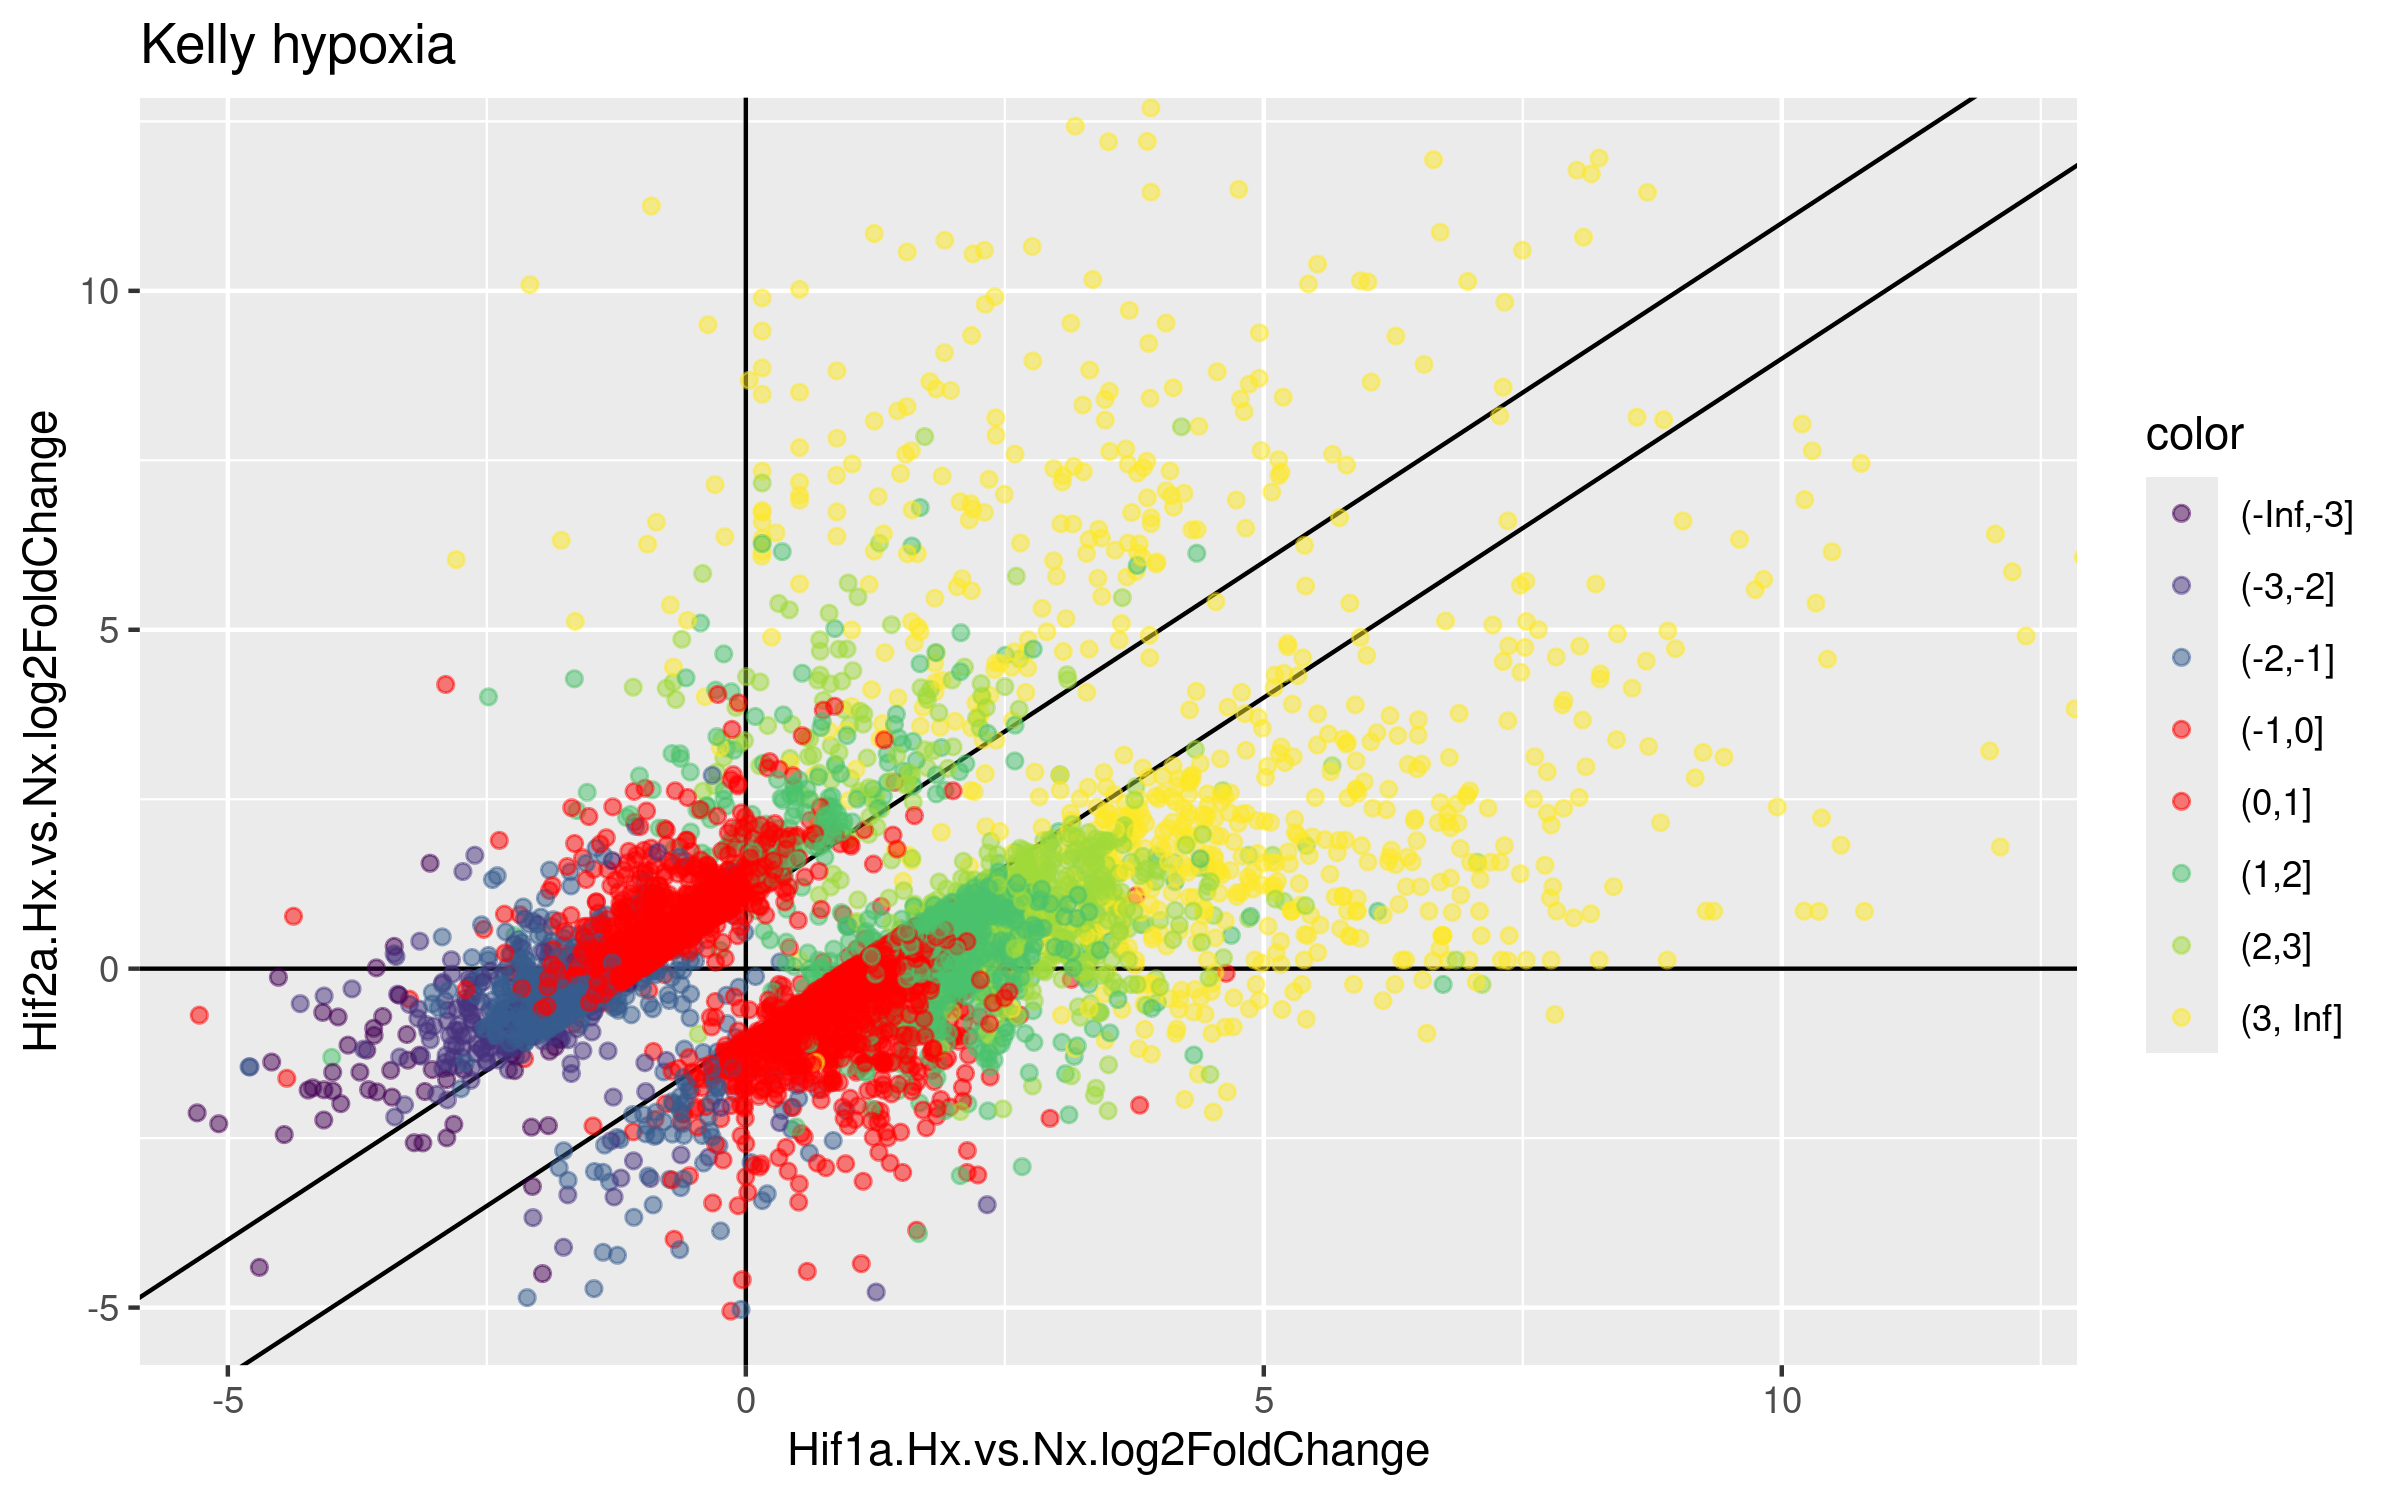
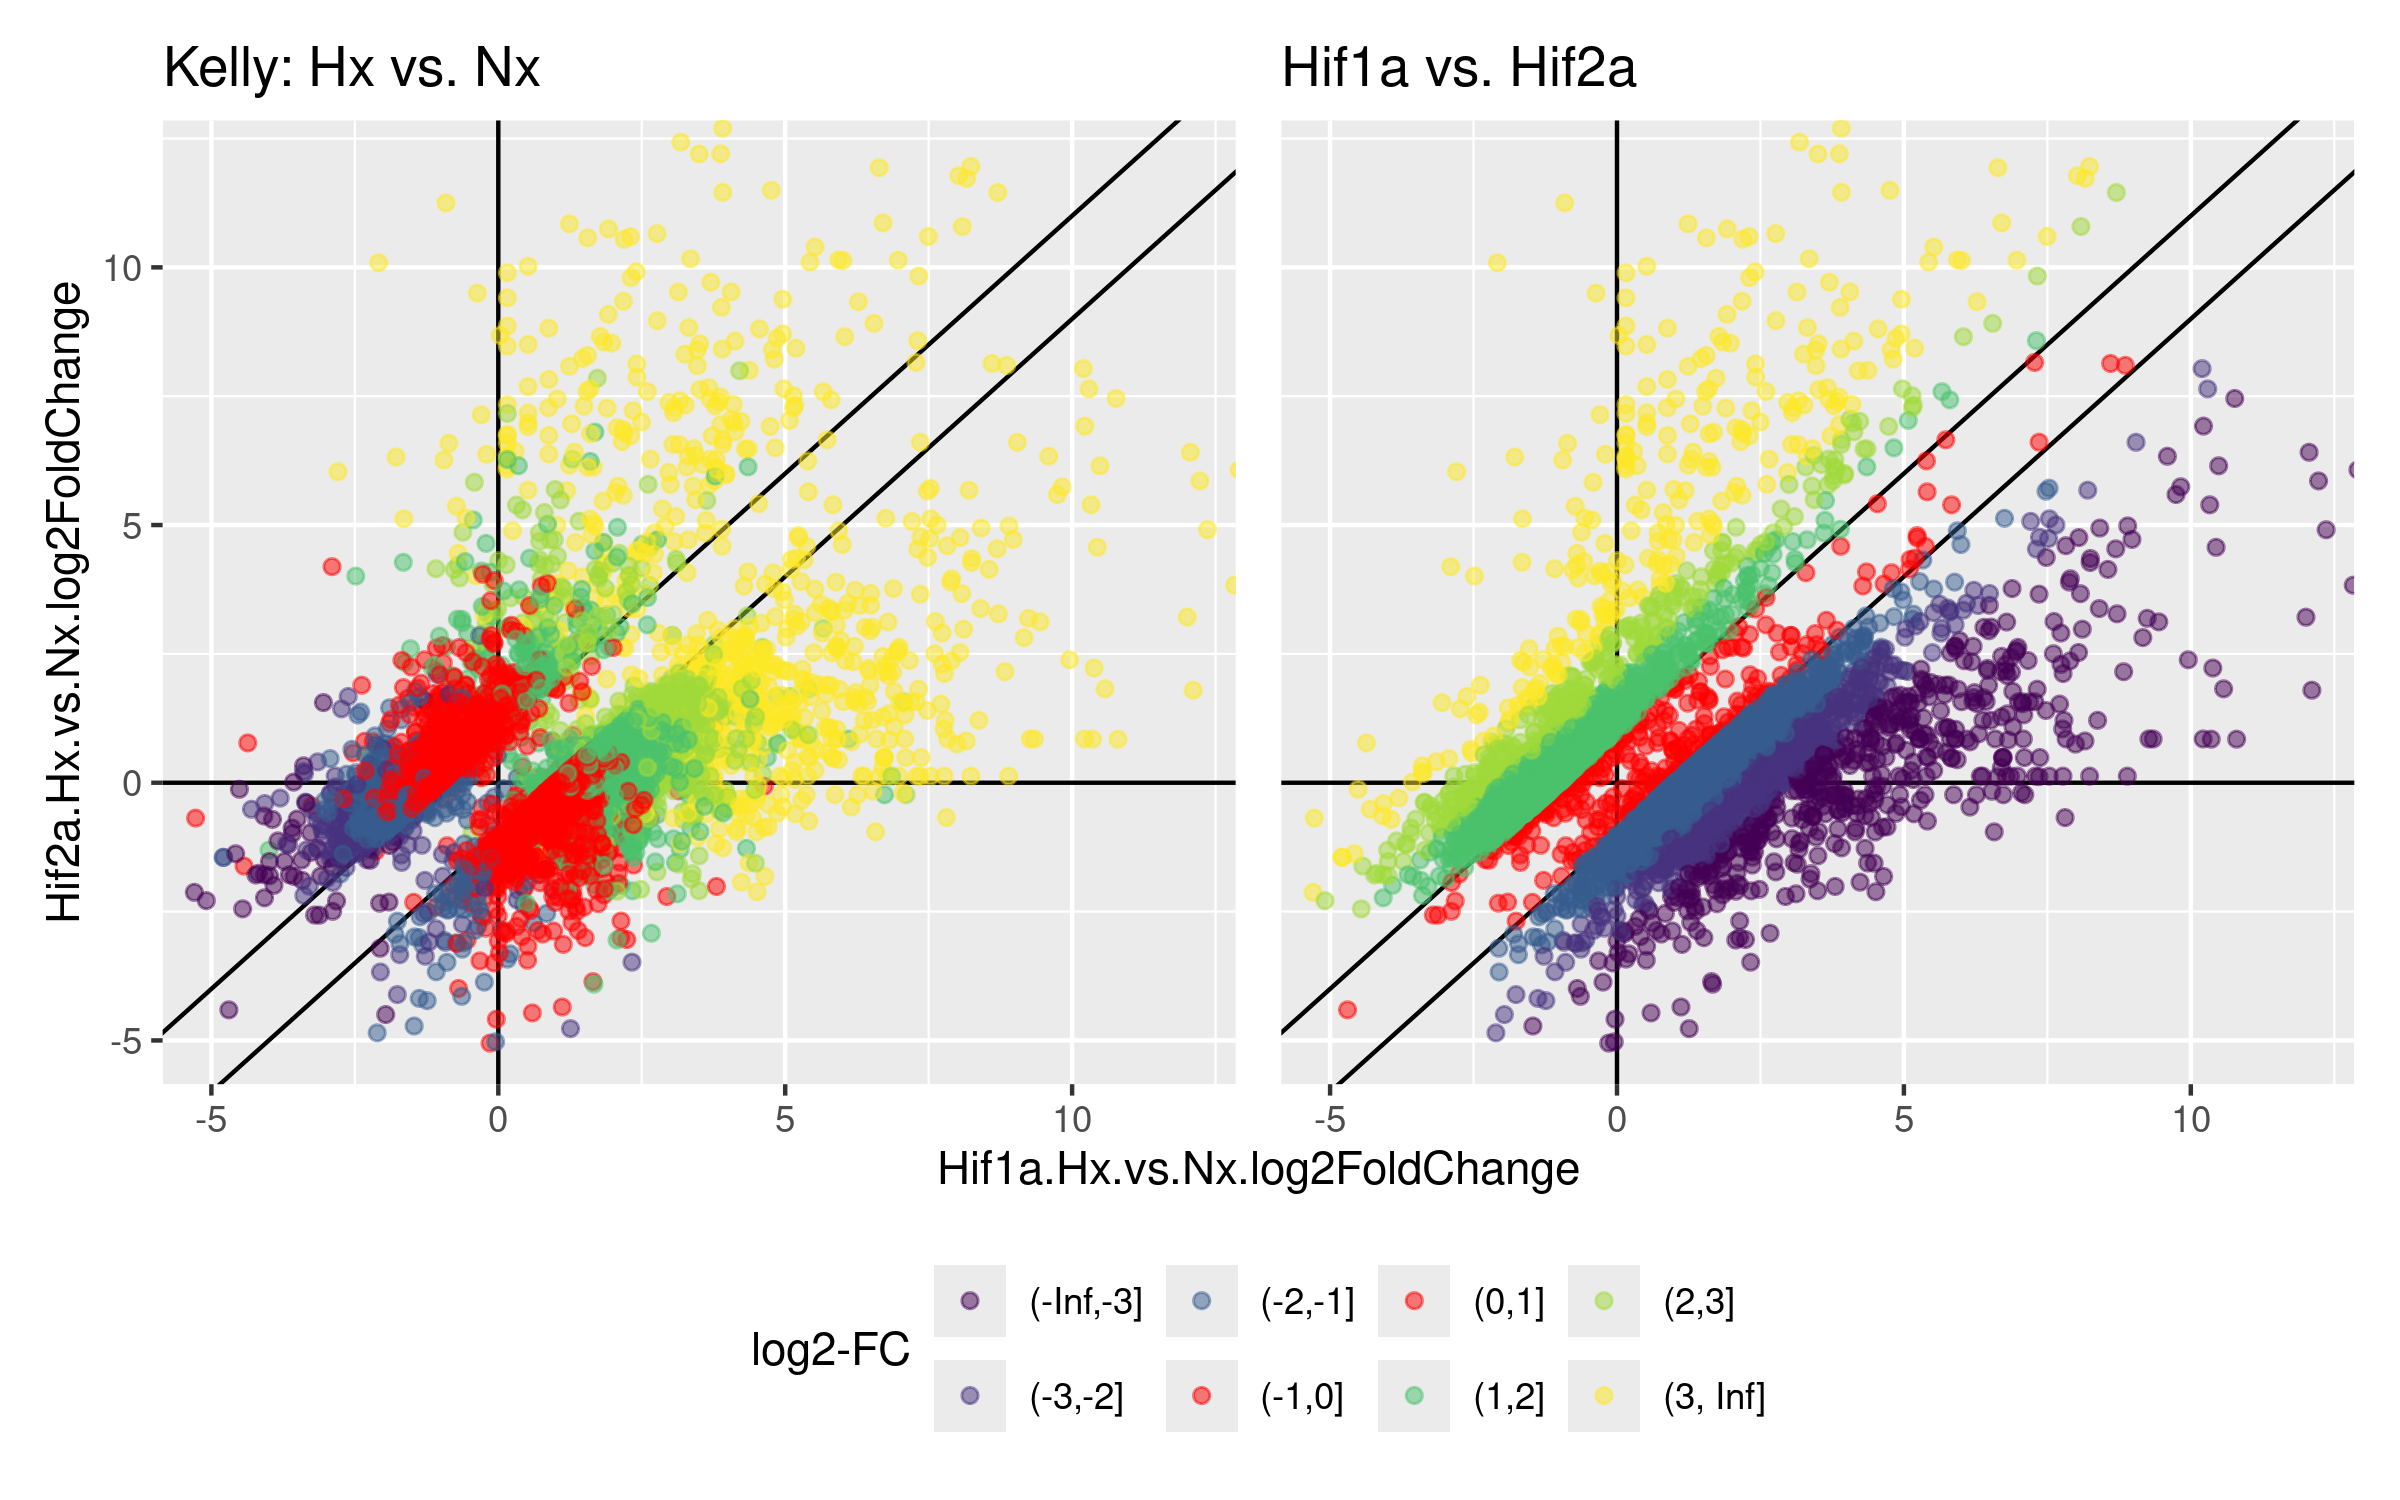
cluster2

diff --git a/4_manuscript/Readme.md b/4_manuscript/Readme.md
@@ -276,38 +276,37 @@ patchwork::wrap_elements(plt1) / patchwork::wrap_elements(plt2)
 
 ``` r
 # Hif1a ~ Hif2a, color: Kelly_Hx
-color <- cut(res_hif1a_2a$Kelly.Hx.vs.Nx.log2FoldChange,c(-Inf,seq(-3,3,by=1),+Inf))
+color1 <- cut(res_hif1a_2a$Kelly.Hx.vs.Nx.log2FoldChange,c(-Inf,seq(-3,3,by=1),+Inf))
 cc <- scales::seq_gradient_pal("blue", "red", "Lab")(seq(0,1,length.out=8))
 cc <- viridis(8)
 cc[4:5] <- "red"
-ggplot(res_hif1a_2a,aes(x=Hif1a.Hx.vs.Nx.log2FoldChange, y=Hif2a.Hx.vs.Nx.log2FoldChange, color=color)) +
+cluster_hx <- ggplot(res_hif1a_2a,aes(x=Hif1a.Hx.vs.Nx.log2FoldChange, y=Hif2a.Hx.vs.Nx.log2FoldChange, color=color1)) +
   geom_hline(yintercept=c(0)) +
   geom_vline(xintercept=c(0)) +
   geom_abline(intercept=c(1,-1)) +
   geom_point(alpha=0.5) +
   # scale_color_viridis_d(option = 'C') +
-  scale_colour_manual(values=cc) +
-  ggtitle(label="Kelly hypoxia") + 
+  scale_colour_manual(name="log2-FC",values=cc) +
+  ggtitle(label="Kelly: Hx vs. Nx") + 
   coord_cartesian(xlim = c(-5, 12),ylim = c(-5,12))
-```
 
-<img src="Readme_files/figure-gfm/unnamed-chunk-2-1.png" width="75%" />
-
-``` r
 # Hif1a ~ Hif2a, color: Hif2a vs. Hif1a
-color <- cut(res_hif1a_2a$Hif2aHxNx.vs.Hif1aHxNx.log2FoldChange,c(-Inf,seq(-3,3,by=1),+Inf))
-ggplot(res_hif1a_2a,aes(x=Hif1a.Hx.vs.Nx.log2FoldChange, y=Hif2a.Hx.vs.Nx.log2FoldChange, color=color)) +
+color2 <- cut(res_hif1a_2a$Hif2aHxNx.vs.Hif1aHxNx.log2FoldChange,c(-Inf,seq(-3,3,by=1),+Inf))
+clusterh1v2 <- ggplot(res_hif1a_2a,aes(x=Hif1a.Hx.vs.Nx.log2FoldChange, y=Hif2a.Hx.vs.Nx.log2FoldChange, color=color2)) +
   geom_hline(yintercept=c(0)) +
   geom_vline(xintercept=c(0)) +
   geom_abline(intercept=c(1,-1)) +
   geom_point(alpha=0.5) +
-  scale_colour_manual(values=cc) +
+  scale_colour_manual(name="log2-FC",values=cc) +
   # scale_color_viridis_d(option = 'C') +
   ggtitle(label="Hif1a vs. Hif2a") + 
   coord_cartesian(xlim = c(-5, 12),ylim = c(-5,12))
+
+cluster_hx + clusterh1v2 + plot_layout(guides = "collect", axes="collect", axis_titles="collect") & 
+  theme(legend.position = 'bottom')
 ```
 
-<img src="Readme_files/figure-gfm/unnamed-chunk-2-2.png" width="75%" />
+<img src="Readme_files/figure-gfm/unnamed-chunk-2-1.png" width="75%" />
 
 # Old code
 
